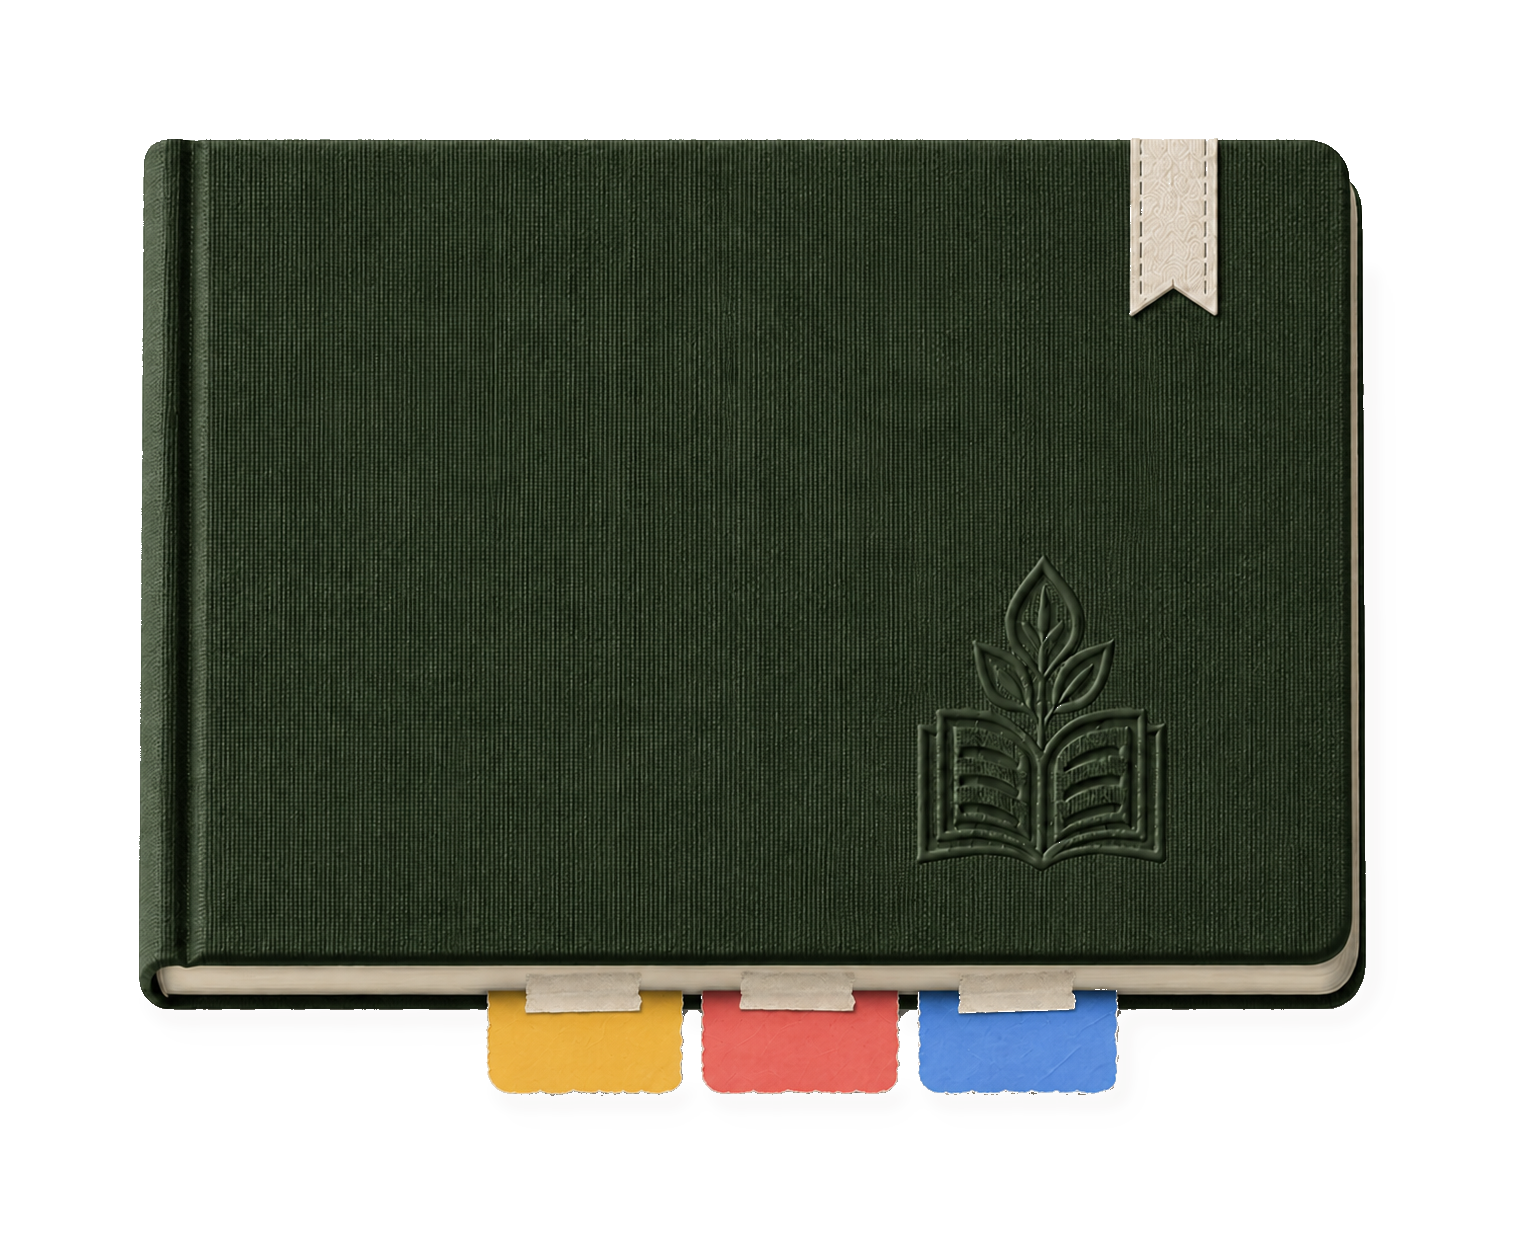
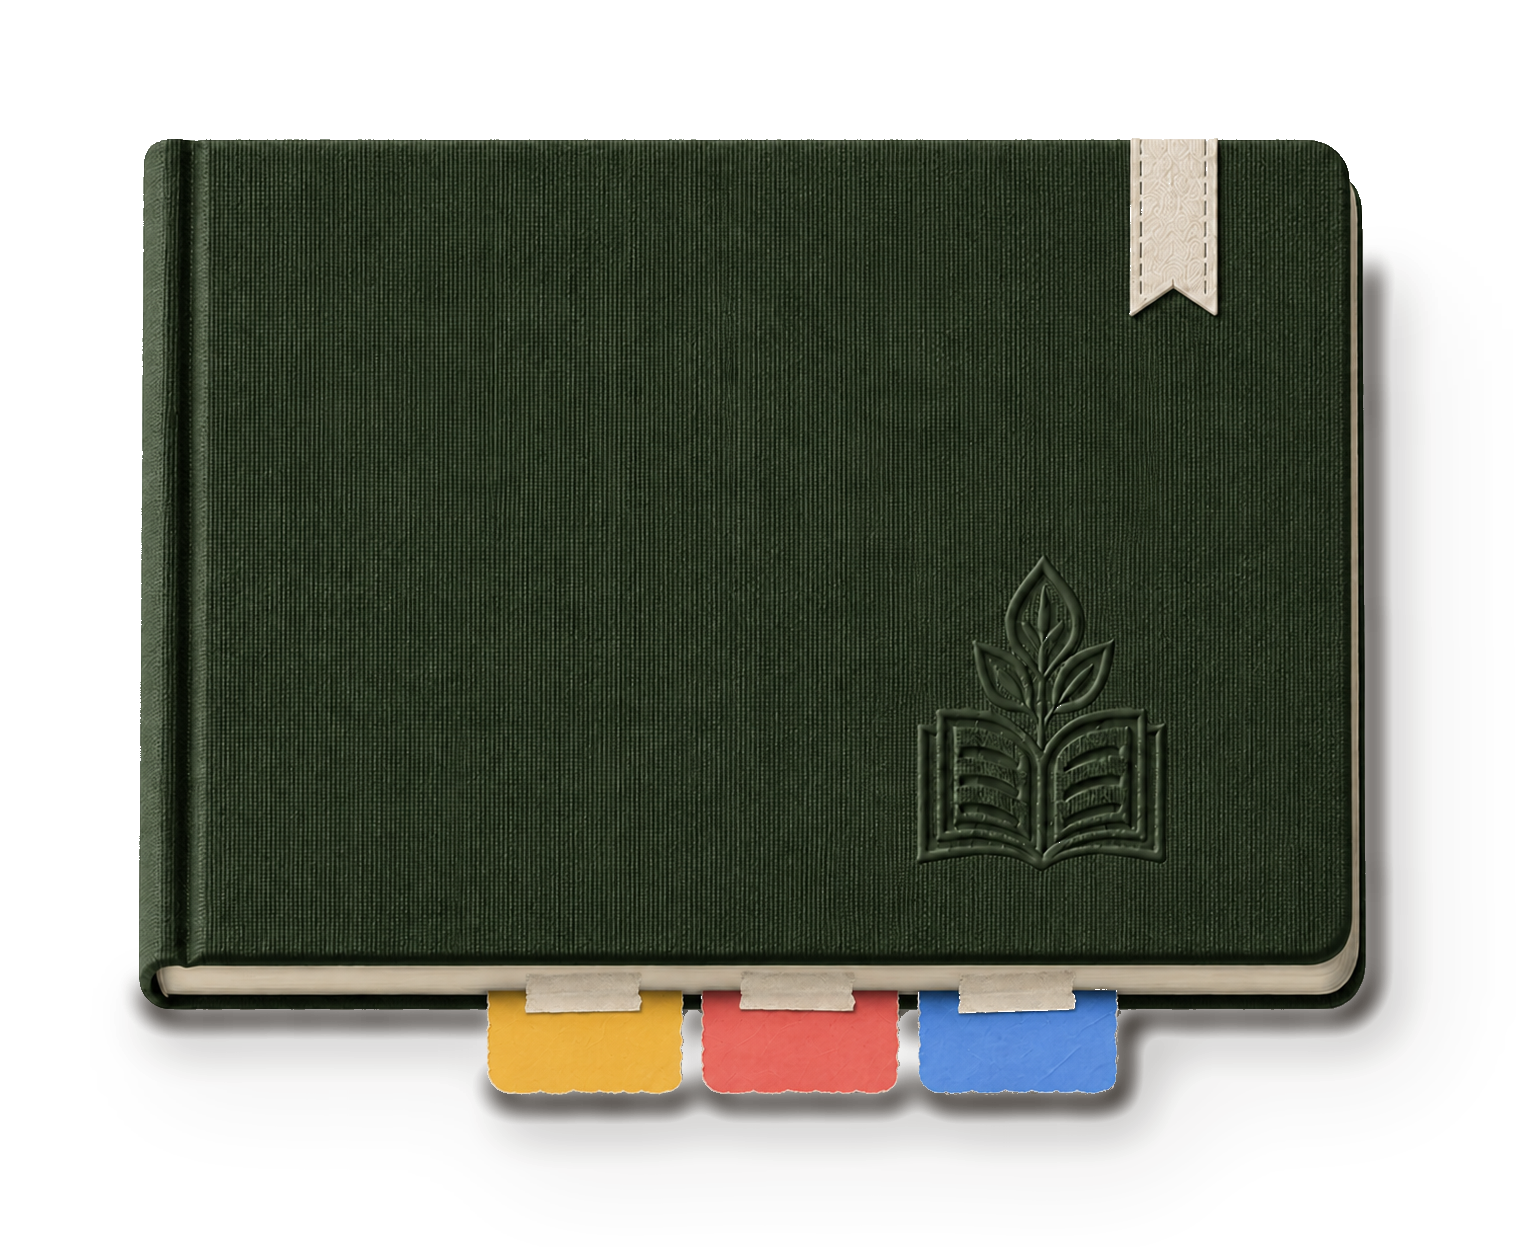
Strengthen Home v8 contact shadows

Changed region(s): [[0.0624, 0.2133, 0.9363, 0.9447]]

diff --git a/references/mockups/home-v8-prep/build_home_v8_plate_candidate.py b/references/mockups/home-v8-prep/build_home_v8_plate_candidate.py
@@ -123,17 +123,22 @@ def contact_mask(alpha: Image.Image) -> Image.Image:
 
 
 def build_shadow(alpha: Image.Image, canvas_size: tuple[int, int], pad: int) -> Image.Image:
-    contact = contact_mask(alpha)
-    tight = offset_alpha(contact, (pad + 8, pad + 10), canvas_size).filter(ImageFilter.GaussianBlur(8))
-    soft = offset_alpha(contact, (pad + 24, pad + 30), canvas_size).filter(ImageFilter.GaussianBlur(32))
-    tab_soft = offset_alpha(contact, (pad + 14, pad + 18), canvas_size).filter(ImageFilter.GaussianBlur(16))
+    contact = contact_mask(alpha).filter(ImageFilter.MaxFilter(7))
+    # Keep the shadow physically attached: only the actual bottom/right/tab
+    # contact edges cast visible shadow. A full-object cast produced a broad
+    # support-slab shape, while the first contact-only pass was too faint at
+    # browser scale. These stronger layers restore visible grounding without
+    # reintroducing the rectangle/slab failure.
+    contact_dark = offset_alpha(contact, (pad + 8, pad + 10), canvas_size).filter(ImageFilter.GaussianBlur(12))
+    contact_mid = offset_alpha(contact, (pad + 20, pad + 25), canvas_size).filter(ImageFilter.GaussianBlur(28))
+    contact_wide = offset_alpha(contact, (pad + 36, pad + 45), canvas_size).filter(ImageFilter.GaussianBlur(52))
 
-    tight = tight.point(lambda value: int(value * 0.30))
-    soft = soft.point(lambda value: int(value * 0.11))
-    tab_soft = tab_soft.point(lambda value: int(value * 0.16))
-    merged = ImageChops.lighter(ImageChops.lighter(tight, soft), tab_soft)
+    contact_dark = contact_dark.point(lambda value: min(255, int(value * 2.15)))
+    contact_mid = contact_mid.point(lambda value: min(255, int(value * 1.28)))
+    contact_wide = contact_wide.point(lambda value: min(255, int(value * 0.62)))
+    merged = ImageChops.lighter(ImageChops.lighter(contact_dark, contact_mid), contact_wide)
 
-    shadow = Image.new("RGBA", canvas_size, (31, 20, 9, 0))
+    shadow = Image.new("RGBA", canvas_size, (18, 11, 5, 0))
     shadow.putalpha(merged)
     return shadow
 

diff --git a/frontend/public/brand/decor/home-v8/ASSET_MANIFEST.md b/frontend/public/brand/decor/home-v8/ASSET_MANIFEST.md
@@ -33,6 +33,7 @@ Status:
 - Wired into Home as the notebook plate.
 - Browser check confirmed the old v7 plate URL is not requested and `.home-v4-notebook::before/::after` shadow pseudo-elements are not active.
 - The first Claude-wired v8 candidate failed visual review because the baked shadow read as a broad support slab and the bookmark ribbon center was cut out. The generator now preserves the ribbon and builds shadow only from the notebook/tab bottom and right contact edges.
+- A follow-up visual pass strengthened the contact-edge shadow after the deployed view showed almost no grounding. The current generator keeps the contact-only mask, thickens it slightly, and uses stronger soft falloff so the book and tabs read as resting on the table without returning to a rectangular support slab.
 
 Prepared tab measurements:
 
